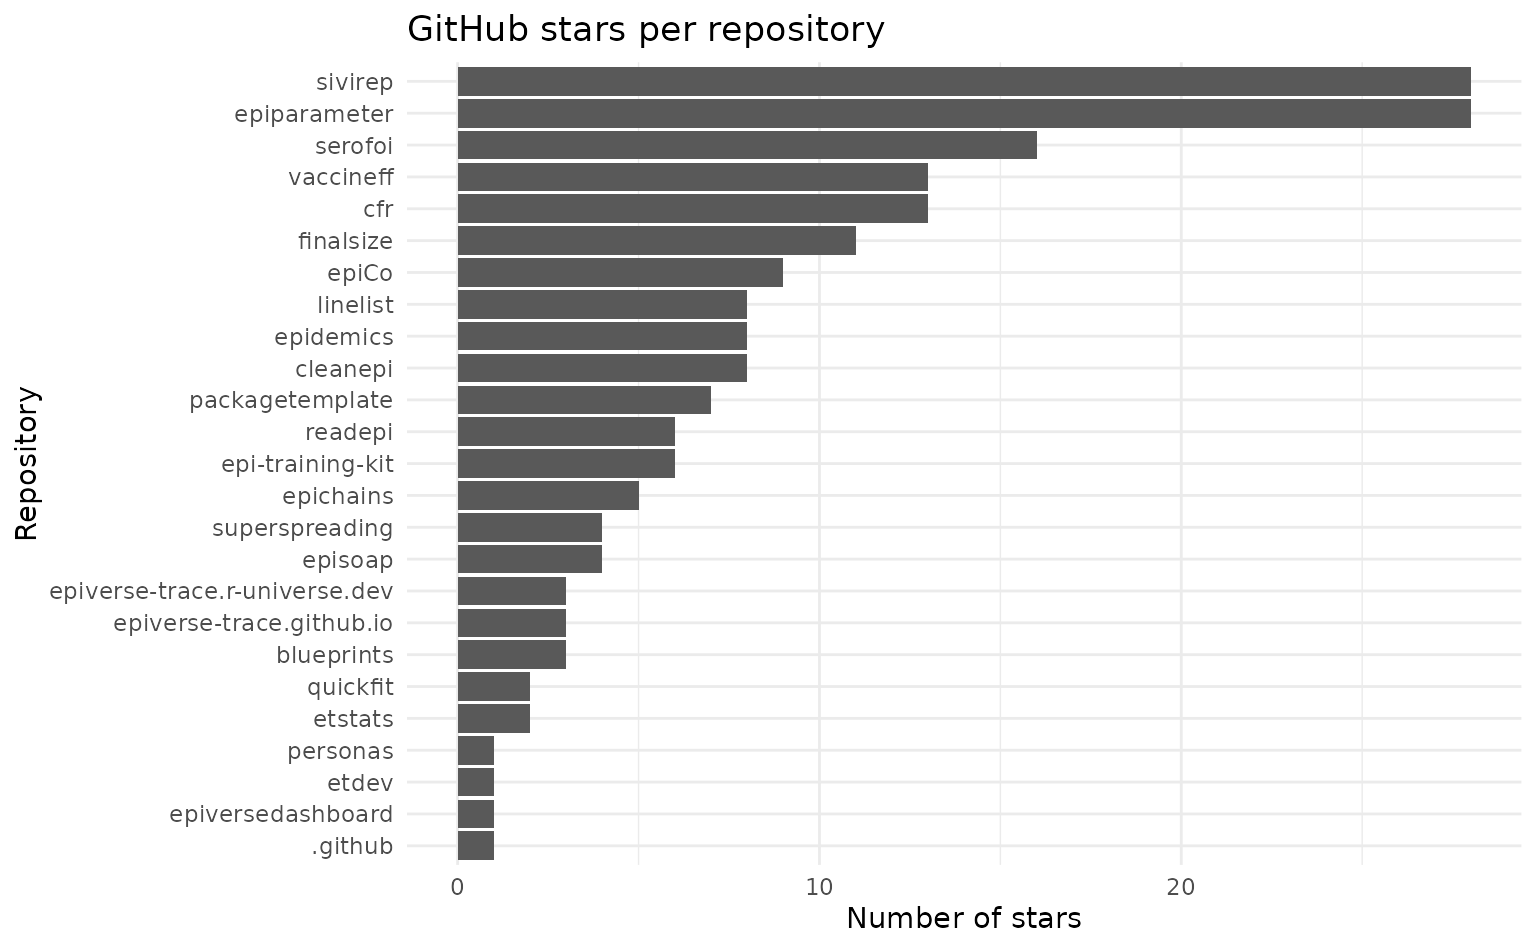
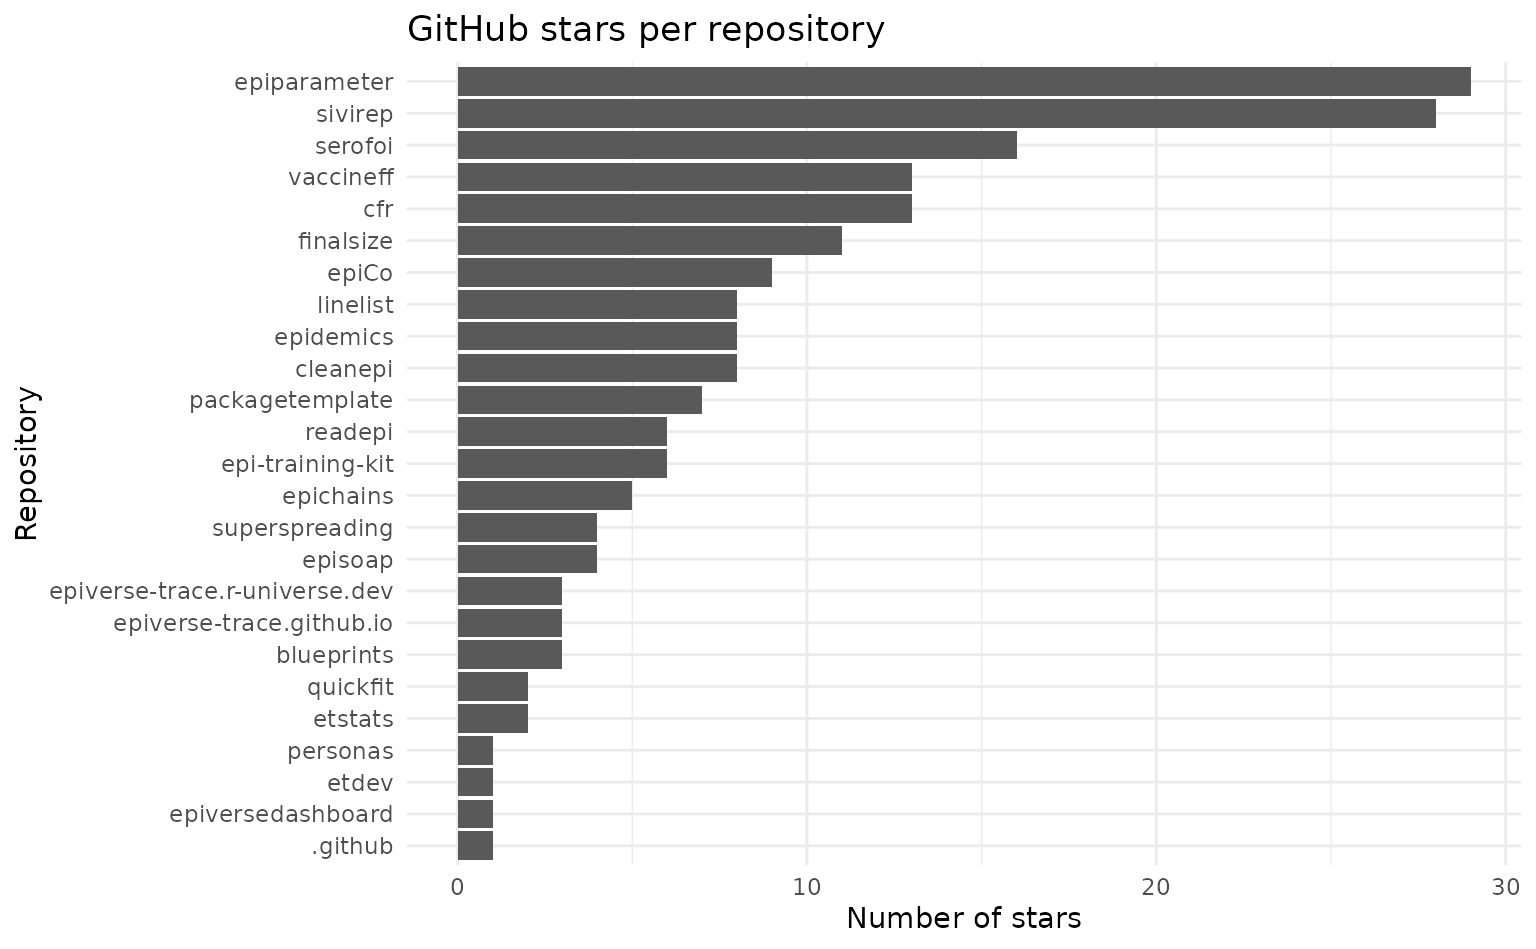
Deploying to gh-pages from @ epiverse-trace/etstats@29eb0ada7ebdff94be0405ac933e295edc3e7bde 🚀

diff --git a/articles/cran-statistics.html b/articles/cran-statistics.html
@@ -74,7 +74,7 @@
 
       <h1>CRAN statistics</h1>
             
-            <h4 data-toc-skip class="date">2024-08-12</h4>
+            <h4 data-toc-skip class="date">2024-08-19</h4>
       
       <small class="dont-index">Source: <a href="https://github.com/epiverse-trace/etstats/blob/main/vignettes/cran-statistics.Rmd" class="external-link"><code>vignettes/cran-statistics.Rmd</code></a></small>
       <div class="d-none name"><code>cran-statistics.Rmd</code></div>
@@ -84,18 +84,18 @@
     
 <p>We currently have 6 Epiverse-TRACE packages on CRAN:</p>
 <ul>
-<li><a href="https://cran.r-project.org/package=numberize" class="external-link">numberize</a></li>
 <li><a href="https://cran.r-project.org/package=epiCo" class="external-link">epiCo</a></li>
 <li><a href="https://cran.r-project.org/package=cleanepi" class="external-link">cleanepi</a></li>
+<li><a href="https://cran.r-project.org/package=numberize" class="external-link">numberize</a></li>
 <li><a href="https://cran.r-project.org/package=cfr" class="external-link">cfr</a></li>
 <li><a href="https://cran.r-project.org/package=linelist" class="external-link">linelist</a></li>
 <li><a href="https://cran.r-project.org/package=finalsize" class="external-link">finalsize</a></li>
 </ul>
-<p>In total, Epiverse-TRACE packages on CRAN have been downloaded 24578
+<p>In total, Epiverse-TRACE packages on CRAN have been downloaded 25431
 times.</p>
 <p>Below is a visualization of the breakdown of this grand total by
 package over time.</p>
-<p><img src="cran-statistics_files/figure-html/unnamed-chunk-6-1.png" alt="Cumulative downloads of Epiverse-TRACE on CRAN (numberize, epiCo, cleanepi, cfr, linelist, finalsize)" width="768"></p>
+<p><img src="cran-statistics_files/figure-html/unnamed-chunk-6-1.png" alt="Cumulative downloads of Epiverse-TRACE on CRAN (epiCo, cleanepi, numberize, cfr, linelist, finalsize)" width="768"></p>
 <table class="table">
 <thead><tr class="header">
 <th align="left">package</th>
@@ -108,43 +108,43 @@ package over time.</p>
 <td align="left">finalsize</td>
 <td align="right">260</td>
 <td align="right">2881</td>
-<td align="right">2152</td>
+<td align="right">2220</td>
 </tr>
 <tr class="even">
 <td align="left">linelist</td>
 <td align="right">3712</td>
 <td align="right">4898</td>
-<td align="right">5556</td>
+<td align="right">5692</td>
 </tr>
 <tr class="odd">
 <td align="left">cfr</td>
 <td align="right">NA</td>
 <td align="right">364</td>
-<td align="right">2717</td>
+<td align="right">3017</td>
 </tr>
 <tr class="even">
 <td align="left">cleanepi</td>
 <td align="right">NA</td>
 <td align="right">NA</td>
-<td align="right">619</td>
+<td align="right">659</td>
 </tr>
 <tr class="odd">
 <td align="left">epiCo</td>
 <td align="right">NA</td>
 <td align="right">NA</td>
-<td align="right">355</td>
+<td align="right">393</td>
 </tr>
 <tr class="even">
 <td align="left">numberize</td>
 <td align="right">NA</td>
 <td align="right">NA</td>
-<td align="right">1064</td>
+<td align="right">1335</td>
 </tr>
 <tr class="odd">
 <td align="left">Total</td>
 <td align="right">3972</td>
 <td align="right">8143</td>
-<td align="right">12463</td>
+<td align="right">13316</td>
 </tr>
 </tbody>
 </table></main>

diff --git a/articles/github-statistics.html b/articles/github-statistics.html
@@ -74,7 +74,7 @@
 
       <h1>GitHub statistics</h1>
             
-            <h4 data-toc-skip class="date">2024-08-12</h4>
+            <h4 data-toc-skip class="date">2024-08-19</h4>
       
       <small class="dont-index">Source: <a href="https://github.com/epiverse-trace/etstats/blob/main/vignettes/github-statistics.Rmd" class="external-link"><code>vignettes/github-statistics.Rmd</code></a></small>
       <div class="d-none name"><code>github-statistics.Rmd</code></div>
@@ -85,7 +85,7 @@
 <div class="section level2">
 <h2 id="github-followers">GitHub followers<a class="anchor" aria-label="anchor" href="#github-followers"></a>
 </h2>
-<p>Our Epiverse-TRACE GitHub organization currently has 148
+<p>Our Epiverse-TRACE GitHub organization currently has 149
 followers.</p>
 </div>
 <div class="section level2">
@@ -94,8 +94,8 @@ followers.</p>
 <div class="section level3">
 <h3 id="totals">Totals<a class="anchor" aria-label="anchor" href="#totals"></a>
 </h3>
-<p>In total, we have 191 stars across all Epiverse-TRACE packages. These
-stars come from 112 unique users.</p>
+<p>In total, we have 192 stars across all Epiverse-TRACE packages. These
+stars come from 113 unique users.</p>
 <p><img src="github-statistics_files/figure-html/unnamed-chunk-5-1.png" width="768"></p>
 </div>
 <div class="section level3">
@@ -120,7 +120,7 @@ stars come from 112 unique users.</p>
 <td align="left">epiparameter</td>
 <td align="right">8</td>
 <td align="right">9</td>
-<td align="right">11</td>
+<td align="right">12</td>
 </tr>
 <tr class="odd">
 <td align="left">epiverse-trace.r-universe.dev</td>
@@ -264,7 +264,7 @@ stars come from 112 unique users.</p>
 <td align="left">Total</td>
 <td align="right">24</td>
 <td align="right">89</td>
-<td align="right">78</td>
+<td align="right">79</td>
 </tr>
 </tbody>
 </table>
